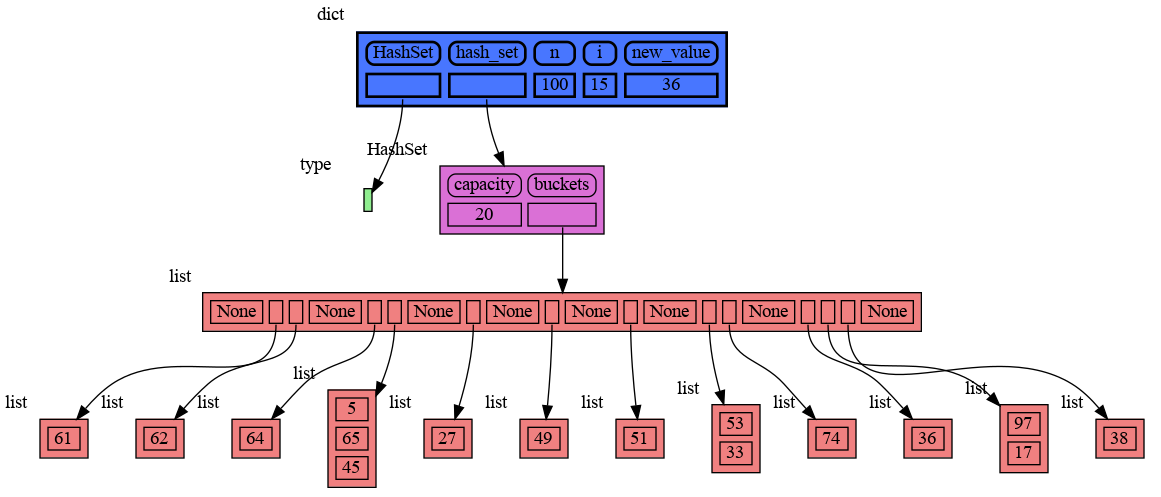
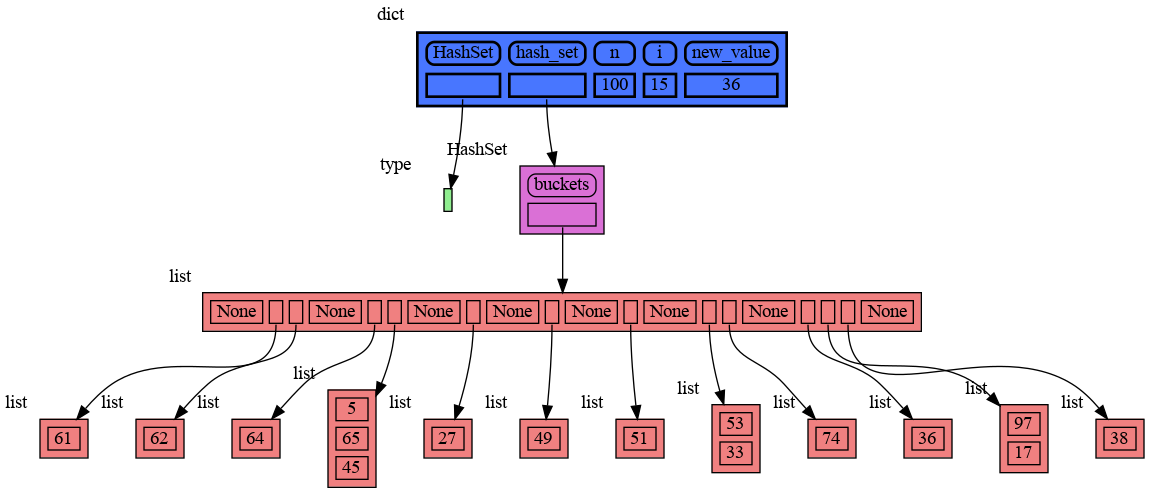
update

diff --git a/images/hash_set.py b/images/hash_set.py
@@ -5,21 +5,25 @@ random.seed(0) # use same random numbers each run
 class HashSet:
     
         def __init__(self, capacity=20):
-            self.capacity = capacity
             self.buckets = [None] * capacity
     
         def add(self, value):
-            index = hash(value) % self.capacity
+            index = hash(value) % len(self.buckets)
             if self.buckets[index] is None:
                 self.buckets[index] = [value]
             else:
                 self.buckets[index].append(value)
 
         def contains(self, value):
-            index = hash(value) % self.capacity
+            index = hash(value) % len(self.buckets)
             if self.buckets[index] is None:
                 return False
             return value in self.buckets[index]
+        
+        def remove(self, value):
+            index = hash(value) % len(self.buckets)
+            if self.buckets[index] is not None:
+                self.buckets[index].remove(value)
         
 hash_set = HashSet()
 n = 100

diff --git a/images/bin_tree.py b/images/bin_tree.py
@@ -15,7 +15,6 @@ class BinTree:
         self.root = None
 
     def add_recursive(self, new_value, node):
-        print(new_value, node.value)
         if new_value == 62 and node.value == 53:
             memory_graph.render(locals(), "bintree.png")
             exit()

diff --git a/README.md b/README.md
@@ -339,21 +339,25 @@ random.seed(0) # use same random numbers each run
 class HashSet:
     
         def __init__(self, capacity=20):
-            self.capacity = capacity
             self.buckets = [None] * capacity
     
         def add(self, value):
-            index = hash(value) % self.capacity
+            index = hash(value) % len(self.buckets)
             if self.buckets[index] is None:
                 self.buckets[index] = [value]
             else:
                 self.buckets[index].append(value)
 
         def contains(self, value):
-            index = hash(value) % self.capacity
+            index = hash(value) % len(self.buckets)
             if self.buckets[index] is None:
                 return False
             return value in self.buckets[index]
+
+        def remove(self, value):
+            index = hash(value) % len(self.buckets)
+            if self.buckets[index] is not None:
+                self.buckets[index].remove(value)
         
 hash_set = HashSet()
 n = 100
